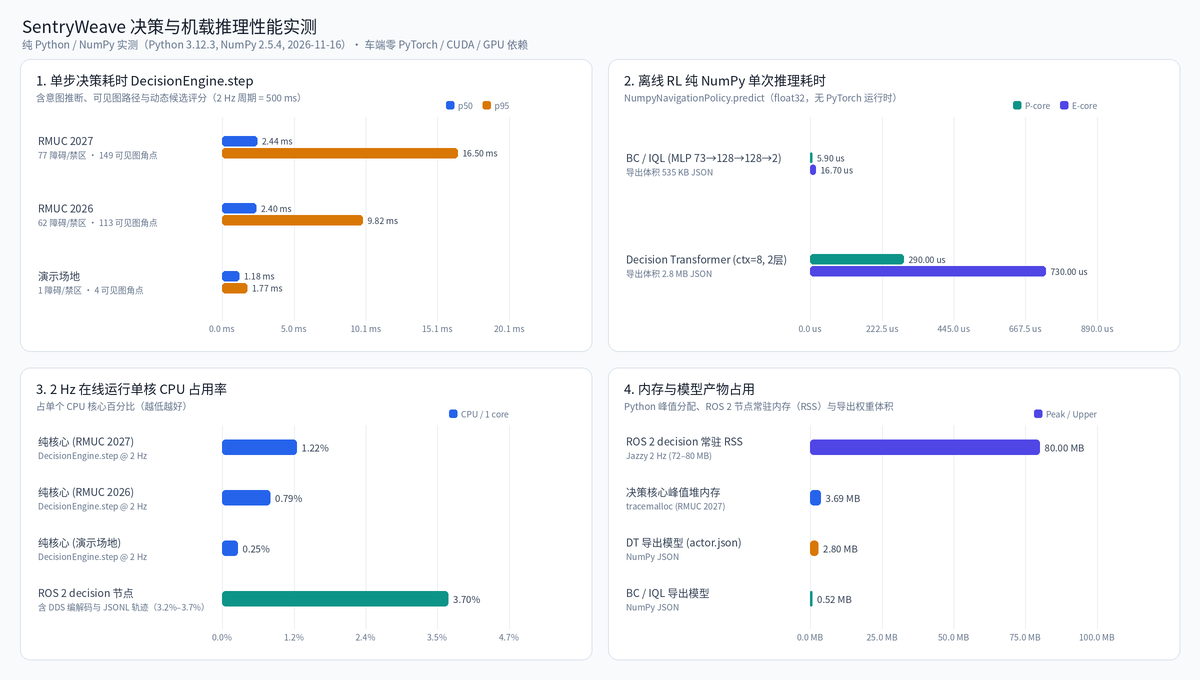
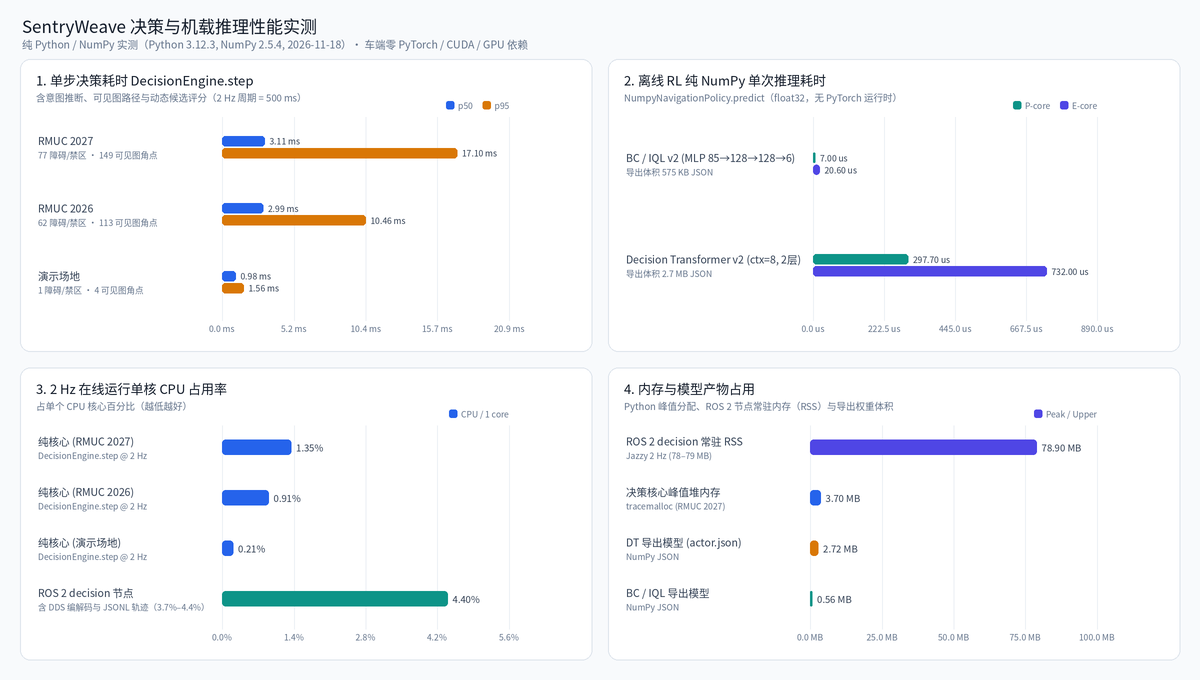
docs(benchmarks): re-measure latency, v2 RL inference and ROS footprint with 2027 posture and spin

diff --git a/tools/benchmark_decision.py b/tools/benchmark_decision.py
@@ -54,10 +54,20 @@ def scenario(config, steps: int, dt: float = 0.5):
                 target = arena.nearest_legal(base, own)
                 enemies[i] = arena.advance(p, target, 1.0 * dt / 5)
                 model.observe(Observation(101 + i, Team.ENEMY, enemies[i], stamp), stamp)
+        postures = ("move", "attack", "defense")
+        posture = postures[(k // 12) % 3]
+        hit_stamp = now - 0.2 if k % 20 == 5 else None
         model.update_game(GameState(now, config.season, config.own_team, Phase.RUNNING,
-                                    max(0.0, 420.0 - k * dt), True), now)
-        model.update_robot(RobotStatus(config.self_id, Team.ALLY, now, 300.0, 400.0, True,
-                                       ammo=0.8, source=1), now)
+                                    max(0.0, 420.0 - k * dt), True, own_gold=320.0), now)
+        model.update_robot(RobotStatus(
+            config.self_id, Team.ALLY, now, 300.0, 400.0, True,
+            ammo=0.8, source=1, heat_ratio=min(0.95, (k % 15) * 0.06),
+            last_hit_stamp=hit_stamp, hit_armor_id=(k % 4) if hit_stamp is not None else None,
+            posture=posture, posture_enhanced=(k % 30 == 10),
+            posture_ready_at=now - 1.0,
+            posture_time_sec=(k * 0.15, k * 0.10, k * 0.25),
+            enhanced_used_sec=(min(12.0, k * 0.03), min(12.0, k * 0.02), 0.0),
+        ), now)
         for name in ("own_base", "own_outpost", "enemy_base", "enemy_outpost"):
             model.update_structure(StructureState(name, now, alive=True, source=1), now)
         yield model.snapshot(now)
@@ -72,13 +82,16 @@ def measure(config, steps: int, prior_path=None) -> dict:
     started = time.perf_counter()
     decider = engine()
     setup_ms = (time.perf_counter() - started) * 1000
-    wall, cpu, tasks = [], [], {}
+    wall, cpu, tasks, postures = [], [], {}, {}
+    spin_steps = 0
     for world in worlds:
         w0, c0 = time.perf_counter(), time.process_time()
         decision = decider.step(world)
         wall.append((time.perf_counter() - w0) * 1000)
         cpu.append((time.process_time() - c0) * 1000)
         tasks[decision.task.kind.name] = tasks.get(decision.task.kind.name, 0) + 1
+        postures[decision.task.posture] = postures.get(decision.task.posture, 0) + 1
+        spin_steps += int(decision.task.spin_enabled)
     tracemalloc.start()
     decider = engine()
     for world in worlds[:50]:
@@ -93,6 +106,7 @@ def measure(config, steps: int, prior_path=None) -> dict:
     return {"steps": steps, "setup_ms": setup_ms, "step_wall_ms": summary(wall),
             "step_cpu_ms": summary(cpu), "cpu_share_at_2hz": float(np.mean(cpu)) / 500.0,
             "tracemalloc_peak_kib": peak / 1024, "tasks": tasks,
+            "postures": postures, "spin_steps": spin_steps,
             "obstacles": len(config.obstacles) + len(config.keepouts),
             "graph_corners": len(TacticalMap(config).corners)}
 

diff --git a/README.md b/README.md
@@ -148,12 +148,12 @@ flowchart LR
 
 | 实测维度（Python 3.12.3 · NumPy 2.5.4 · x86_64） | 场地 / 模型规模 | 关键耗时指标 | CPU / 内存 / 产物体积 |
 |---|---|---|---|
-| `DecisionEngine.step` 单步耗时（`rmuc2027`） | 28×15 m · 77 障碍/禁区 · 149 可见图角点 | `p50 = 2.44 ms` · `p95 = 16.50 ms` · `mean = 6.08 ms` · `max = 40.80 ms`（建图 `119.28 ms`） | `2 Hz`（`500 ms` 预算）纯核心单核 CPU **1.22%** · Python 峰值堆内存 **3.70 MiB** |
-| `DecisionEngine.step` 单步耗时（`rmuc2026`） | 28×15 m · 62 障碍/禁区 · 113 可见图角点 | `p50 = 2.40 ms` · `p95 = 9.82 ms` · `mean = 3.92 ms` · `max = 24.20 ms`（建图 `44.58 ms`） | `2 Hz` 纯核心单核 CPU **0.79%** · Python 峰值堆内存 **2.04 MiB** |
-| `DecisionEngine.step` 单步耗时（`demo`） | 20×12 m · 1 障碍 · 4 可见图角点 | `p50 = 1.18 ms` · `p95 = 1.77 ms` · `mean = 1.25 ms` · `max = 2.17 ms`（建图 `0.29 ms`） | `2 Hz` 纯核心单核 CPU **0.25%** · Python 峰值堆内存 **1.27 MiB** |
-| 纯 NumPy 策略前向推理（`BC / IQL`） | MLP `73 → 128 → 128 → 2`（`float32`） | P 核 **5.9 μs** · E 核 **16.7 μs** | 导出模型 `actor.json` **535 KB** · 零深度学习框架依赖 |
-| 纯 NumPy 策略前向推理（`Decision Transformer`） | `context=8`, 2 层因果自注意力 | P 核 **0.29 ms** (`290 μs`) · E 核 **0.73 ms** (`730 μs`) | 导出模型 `actor.json` **2.8 MB** (`2867.2 KiB`) · 零深度学习框架依赖 |
-| ROS 2 Jazzy `decision` 在线节点（`2 Hz`） | 含 `rclpy` 定时器、`WorldState` 解码、决策与 JSONL 轨迹写入 | 周期稳定 `500 ms` | 单核 CPU **3.2%–3.7%** · 常驻内存 RSS **72–80 MB** |
+| `DecisionEngine.step` 单步耗时（`rmuc2027`，含 2027 姿态/小陀螺） | 28×15 m · 77 障碍/禁区 · 149 可见图角点 | 规则 `p50 = 3.11 ms` · `p95 = 17.10 ms` · `mean = 6.74 ms`（挂载 v2 IQL：`p50 = 4.76 ms` · `p95 = 19.48 ms`） | `2 Hz`（`500 ms` 预算）纯核心单核 CPU **1.35%**（+v2 IQL **1.67%**）· 峰值堆内存 **3.70 MiB**（+v2 IQL **4.90 MiB**） |
+| `DecisionEngine.step` 单步耗时（`rmuc2026`） | 28×15 m · 62 障碍/禁区 · 113 可见图角点 | `p50 = 2.99 ms` · `p95 = 10.46 ms` · `mean = 4.54 ms` · `max = 29.29 ms`（建图 `45.14 ms`） | `2 Hz` 纯核心单核 CPU **0.91%** · Python 峰值堆内存 **2.05 MiB** |
+| `DecisionEngine.step` 单步耗时（`demo`） | 20×12 m · 1 障碍 · 4 可见图角点 | `p50 = 0.98 ms` · `p95 = 1.56 ms` · `mean = 1.06 ms` · `max = 2.17 ms`（建图 `0.28 ms`） | `2 Hz` 纯核心单核 CPU **0.21%** · Python 峰值堆内存 **1.30 MiB** |
+| 纯 NumPy 策略前向推理（`BC / IQL v2` 走位+姿态联合输出） | MLP `85 → 128 → 128 → 6`（v1 `73→2` 为 `6.4 / 17.8 μs`） | P 核 **7.0 μs** · E 核 **20.6 μs** | 导出模型 `actor.json` **575 KB**（v1 为 `535 KB`）· 零深度学习框架依赖 |
+| 纯 NumPy 策略前向推理（`Decision Transformer v2`） | `85 → 6`, `context=8`, 2 层因果自注意力 | P 核 **0.30 ms** (`297.7 μs`) · E 核 **0.73 ms** (`732.0 μs`) | 导出模型 `actor.json` **2.73 MiB** (`2790.3 KiB`) · 零深度学习框架依赖 |
+| ROS 2 Jazzy `decision` 在线节点（`2 Hz` + 受击瞬时触发） | 含 `WorldState` 解码、2027 姿态 `0x0120` / 小陀螺发布与 JSONL 轨迹 | 稳态 `2 Hz`（含每 2s 受击即发实测 `2.4 Hz`） | 单核 CPU **3.7%–4.4%** · 常驻内存 RSS **77.6–78.9 MiB** |
 
 在本机复现单步耗时基准并重新生成性能图：
 

diff --git a/docs/benchmarks.md b/docs/benchmarks.md
@@ -98,13 +98,14 @@ blend=1.0 时，BC/IQL/DT 的代理奖励为 0.7229/0.7122/0.5849。
 
 ### 单步决策耗时（`DecisionEngine.step`）
 
-以下结果于 2026-11-16 由 `tools/benchmark_decision.py` 在 Python 3.12.3、NumPy 2.5.4（x86_64）上对每张地图连续执行 200 步测得（含轨迹意图推断、分防区威胁评估、凸多边形可见图最短路、动态候选生成与六维效用仲裁；2 Hz 决策预算为 `500 ms`）：
+以下结果于 2026-11-18 由 `tools/benchmark_decision.py` 在 Python 3.12.3、NumPy 2.5.4（x86_64，单线程 BLAS）上对每张地图连续执行 200 步测得（含轨迹意图推断、分防区威胁评估、凸多边形可见图最短路、含 `enemy_front` 的动态候选生成、六维效用仲裁、2027 哨兵姿态 `PosturePolicy` 与受击小陀螺 `SpinPolicy`；2 Hz 决策预算为 `500 ms`）：
 
 | 场地配置 | 障碍 / 禁区数 | 可见图角点数 | 建图初始化 | p50 (ms) | p95 (ms) | mean (ms) | max (ms) | 2 Hz 单核 CPU 占比 | Python 峰值堆内存 |
 |---|---:|---:|---:|---:|---:|---:|---:|---:|---:|
-| `rmuc2027`（28×15 m） | 77 | 149 | 119.28 ms | 2.44 | 16.50 | 6.08 | 40.80 | 1.22% | 3.70 MiB (3783.5 KiB) |
-| `rmuc2026`（28×15 m） | 62 | 113 | 44.58 ms | 2.40 | 9.82 | 3.92 | 24.20 | 0.79% | 2.04 MiB (2093.7 KiB) |
-| `demo`（20×12 m） | 1 | 4 | 0.29 ms | 1.18 | 1.77 | 1.25 | 2.17 | 0.25% | 1.27 MiB (1304.5 KiB) |
+| `rmuc2027`（规则 + 姿态/小陀螺） | 77 | 149 | 120.03 ms | 3.11 | 17.10 | 6.74 | 50.46 | 1.35% | 3.70 MiB (3791.2 KiB) |
+| `rmuc2027`（挂载 v2 IQL `85→6`） | 77 | 149 | 126.60 ms | 4.76 | 19.48 | 8.35 | 51.82 | 1.67% | 4.90 MiB (5019.9 KiB) |
+| `rmuc2026`（28×15 m） | 62 | 113 | 45.14 ms | 2.99 | 10.46 | 4.54 | 29.29 | 0.91% | 2.05 MiB (2098.6 KiB) |
+| `demo`（20×12 m） | 1 | 4 | 0.28 ms | 0.98 | 1.56 | 1.06 | 2.17 | 0.21% | 1.30 MiB (1328.5 KiB) |
 
 该基准仅计纯 Python 决策核心开销，不包含激光 SLAM、Nav2 局部控制器或真实传感器驱动负载。
 
@@ -112,9 +113,9 @@ blend=1.0 时，BC/IQL/DT 的代理奖励为 0.7229/0.7122/0.5849。
 
 | 测量项 | P 核单次耗时 | E 核单次耗时 | 产物 / 内存占用 | 说明 |
 |---|---:|---:|---:|---|
-| BC / IQL（MLP `73→128→128→2`） | 5.9 μs | 16.7 μs | 535 KB `actor.json` | `NumpyNavigationPolicy.predict`（`float32`） |
-| Decision Transformer（`ctx=8`, 2 层） | 0.29 ms (290 μs) | 0.73 ms (730 μs) | 2.8 MB `actor.json` | 含因果自注意力与 LayerNorm 纯 NumPy 实现 |
-| ROS 2 Jazzy `decision` 节点（2 Hz） | — | — | 单核 CPU 3.2%–3.7%，RSS 72–80 MB | 含 `rclpy` 定时器、`WorldState` 解码、`DecisionEngine.step` 与 JSONL 轨迹写入 |
+| BC / IQL v2（MLP `85→128→128→6`） | 7.0 μs | 20.6 μs | 574.6 KiB `actor.json` | 走位 + 2027 姿态/强化联合输出（v1 `73→2` 为 `6.4 / 17.8 μs`、`534.6 KiB`） |
+| Decision Transformer v2（`85→6`, `ctx=8`, 2 层） | 0.30 ms (297.7 μs) | 0.73 ms (732.0 μs) | 2.73 MiB (2790.3 KiB) `actor.json` | 含因果自注意力与 LayerNorm 纯 NumPy 实现（v1 为 `296.3 / 727.6 μs`） |
+| ROS 2 Jazzy `decision` 节点（2 Hz + 受击即发） | — | — | 单核 CPU 3.7%–4.4%，RSS 77.6–78.9 MiB | 含 `WorldState` 解码、2027 姿态 `0x0120` / 小陀螺发布与 JSONL 轨迹（折算稳态 `2.0 Hz` 为 `3.7%`，含每 2s 受击触发为 `4.4%`） |
 
 ## Arena-1 RMUC 2027 雷达缺失鲁棒性实验
 

diff --git a/docs/real-robot.md b/docs/real-robot.md
@@ -246,9 +246,9 @@ ros2 launch sentry_bringup decision.launch.py \
 若已导出离线 RL 模型，可附加 `--rl-model artifacts/rl/runs/iql-seed7/actor.json` 一并测量含 `GoalPrior` 推理与子目标投影的单步耗时。
 
 健康参考范围（对照仓库实测基线 [`benchmarks/decision-latency.json`](../benchmarks/decision-latency.json) 与 [`benchmarks/runtime-footprint.json`](../benchmarks/runtime-footprint.json)，详见 [实验与性能基准](benchmarks.md)）：
-- 在包含 **77 个障碍/禁区多边形、149 个可见图角点**的 RMUC 2027 场地上，`DecisionEngine.step` 正常单步耗时为**数毫秒至十余毫秒**（x86_64 基线 `p50 ≈ 2.4 ms`、`p95 ≈ 16.5 ms`），远小于 `2 Hz` 决策周期（**`500 ms`** 预算），纯核心单核 CPU 占比约 `1.2%`；
-- 纯 NumPy 离线 RL 单次前向推理（`NumpyNavigationPolicy.predict`）：MLP（BC/IQL，约 `535 KB`）仅需微秒级（`~6–17 μs`），Decision Transformer（`context=8`，约 `2.8 MB`）不到 `1 ms`（`~0.29–0.73 ms`），车端无需安装 PyTorch 或占用自瞄 GPU；
-- ROS 2 `decision` 节点在 `2 Hz` 在线运行（含 DDS 消息编解码与滚动 JSONL 写入）单核 CPU 占用约 `3.2%–3.7%`，常驻内存 RSS 约 `72–80 MB`。
+- 在包含 **77 个障碍/禁区多边形、149 个可见图角点**的 RMUC 2027 场地上（含 `enemy_front` 纵深区、2027 姿态与受击小陀螺评估），`DecisionEngine.step` 正常单步耗时为**数毫秒至十余毫秒**（x86_64 基线：规则 `p50 ≈ 3.1 ms`、`p95 ≈ 17.1 ms`，挂载 v2 IQL `p50 ≈ 4.8 ms`、`p95 ≈ 19.5 ms`），远小于 `2 Hz` 决策周期（**`500 ms`** 预算），纯核心单核 CPU 占比约 `1.35%–1.67%`；
+- 纯 NumPy 离线 RL 单次前向推理（`NumpyNavigationPolicy.predict`）：MLP（BC/IQL v2 `85→128→128→6`，约 `575 KiB`）仅需微秒级（`~7.0–20.6 μs`），Decision Transformer v2（`85→6`, `context=8`，约 `2.73 MiB`）不到 `1 ms`（`~0.30–0.73 ms`），车端无需安装 PyTorch 或占用自瞄 GPU；
+- ROS 2 `decision` 节点在 `2 Hz` 在线运行（含 DDS 消息编解码、2027 姿态 `0x0120` 与小陀螺发布、受击瞬时重评估及滚动 JSONL 写入）单核 CPU 占用约 `3.7%–4.4%`，常驻内存 RSS 约 `78–79 MiB`。
 
 ### 4.2 赛后比赛日志一键健康检查脚本
 
